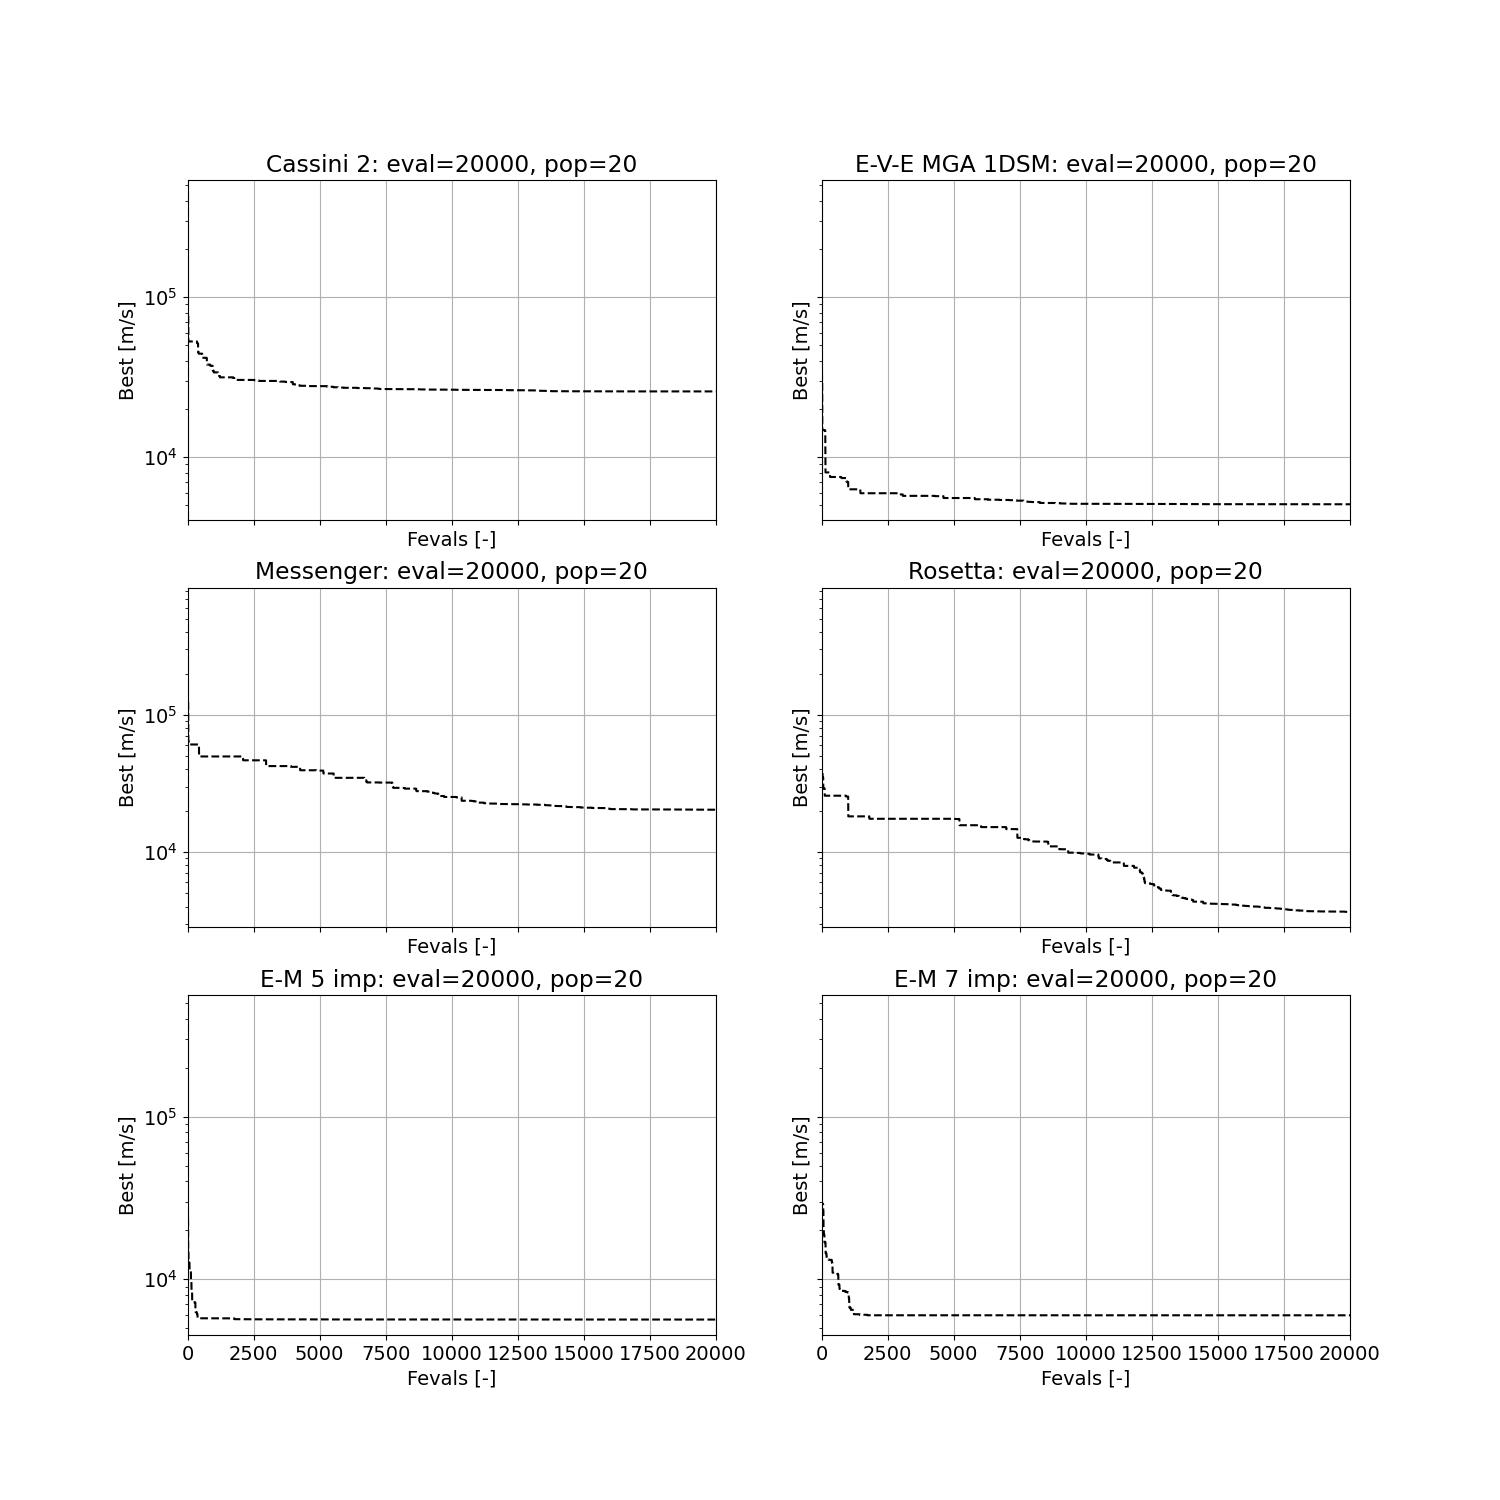
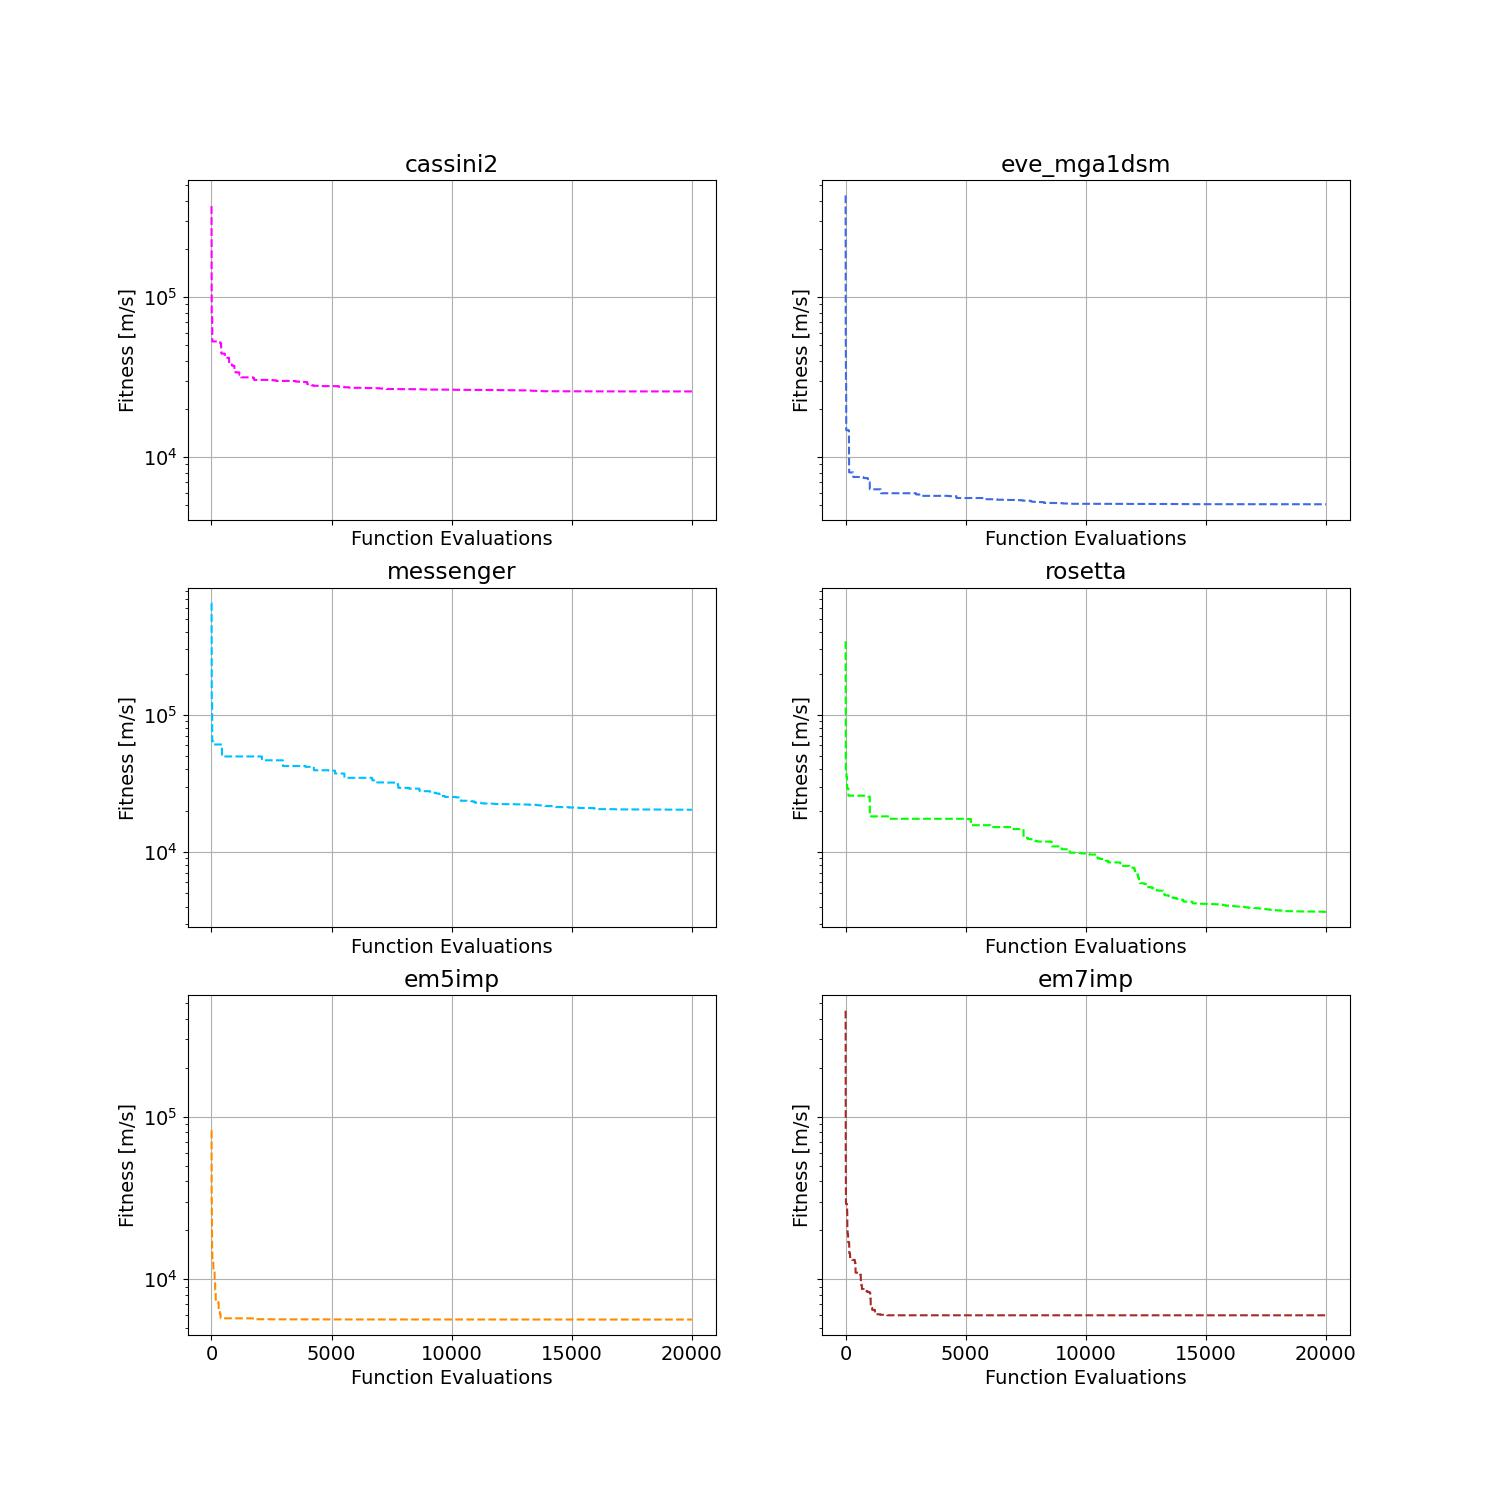
Update tutorials/pykep_optimization.py

diff --git a/tutorials/pykep_optimization.py b/tutorials/pykep_optimization.py
@@ -2,6 +2,7 @@
     https://esa.github.io/pykep/
     https://esa.github.io/pykep/examples/ex13.html
 """
+import numpy as np
 import pygmo as pg  # it's better to use conda to install (and it's better to use pygmo==2.18)
 import pykep as pk  # it's better to use conda to install
 import matplotlib.pyplot as plt
@@ -12,6 +13,7 @@ from pypop7.optimizers.pso.spso import SPSO as Solver
 fig, axes = plt.subplots(nrows=3, ncols=2, sharex='col', sharey='row', figsize=(15, 15))
 problems = [pk.trajopt.gym.cassini2, pk.trajopt.gym.eve_mga1dsm, pk.trajopt.gym.messenger,
             pk.trajopt.gym.rosetta, pk.trajopt.gym.em5imp, pk.trajopt.gym.em7imp]
+ticks = [0, 5e3, 1e4, 1.5e4, 2e4]
 
 for prob_number in range(0, 6):
     udp = problems[prob_number]
@@ -51,5 +53,6 @@ for prob_number in range(0, 6):
         axes[2, 1].set_title('em7imp')
 for ax in axes.flat:
     ax.set(xlabel='Function Evaluations', ylabel='Fitness [m/s]')
+    ax.set_xticks(ticks)
     ax.grid()
 plt.savefig('pykep_optimization.jpg')  # to save locally
